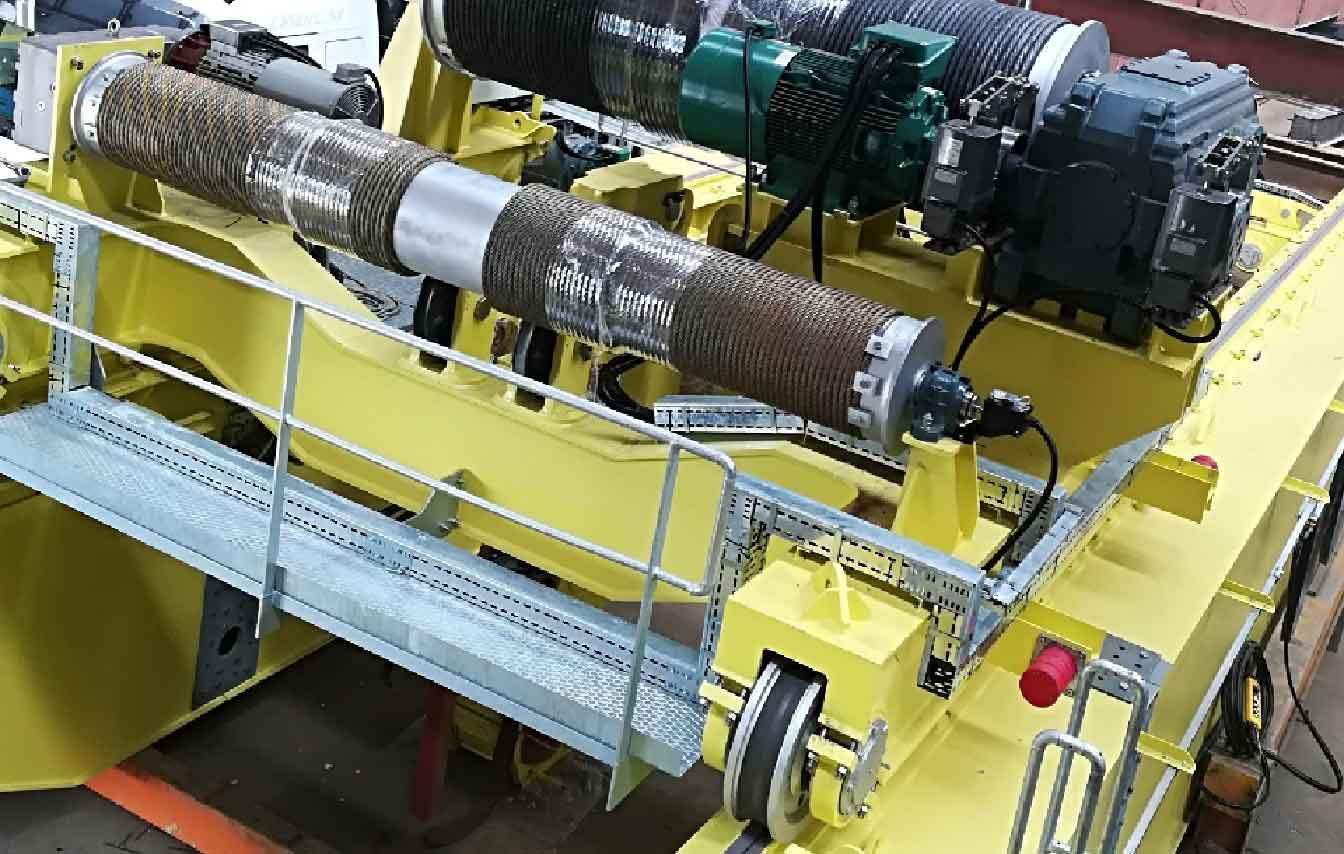
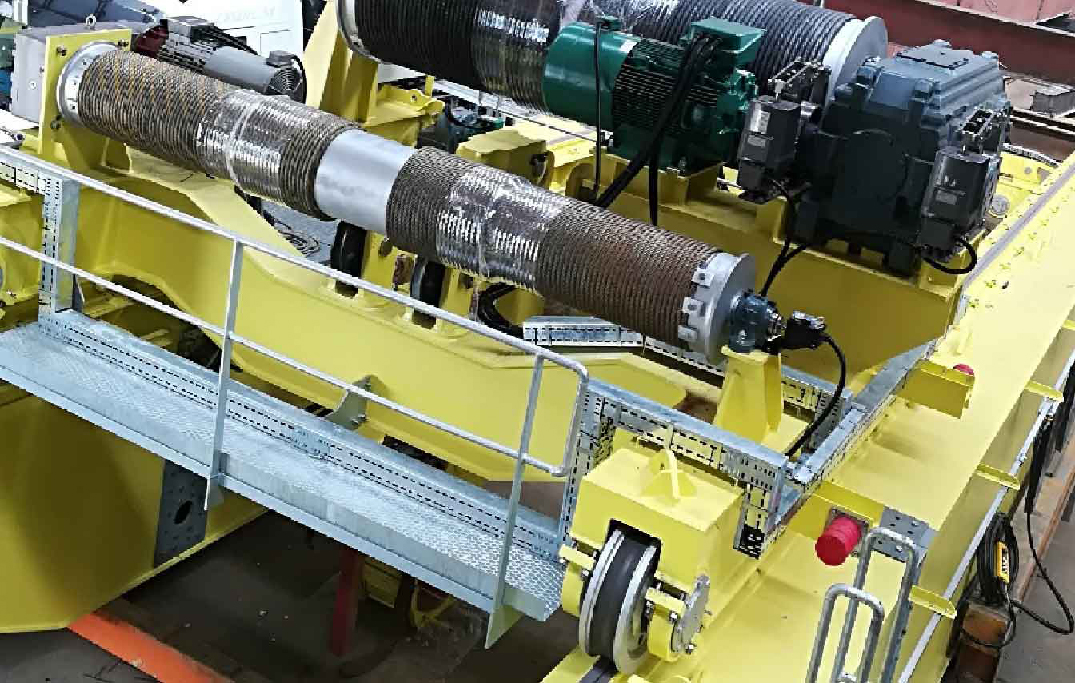
nn

diff --git a/docs/pergelvincler.html b/docs/pergelvincler.html
@@ -155,16 +155,16 @@
                     </div>
 
                     <div class="col-lg-8">
-                        <img src="assets/img/pergelvincler.jpg" alt="" class="img-fluid services-img">
+                        <img src="assets/img/pergel3.jpg" alt="" class="img-fluid services-img">
                         <h3>Pergel Vinçler</h3><br><br><br>
                         <p>Pergel vinç kapalı tüm alanlarda; yükleme, taşıma ve buna benzer tüm işlerde kullanılmak için imal edilmekte ve isteğe bağlı olarak da zincirli bir şekilde kullanılmaktadır. Ayrıca, model olarak da sabit, duvar bağlantılı, yere
                             bağlantılı kolon tipi, döner tipi şeklinde olmaktadır.</p>
 
                         <div class="row">
                             <div class="col-lg-6">
-                                <img src="assets/img/" alt="" class="img-fluid services-img"></div>
+                                <img src="assets/img/pergel1.jpg" alt="" class="img-fluid services-img"></div>
                             <div class="col-lg-6">
-                                <img src="assets/img/" alt="" class="img-fluid services-img"></div>
+                                <img src="assets/img/pergel2.jpg" alt="" class="img-fluid services-img"></div>
                         </div>
                     </div>
         </section>
